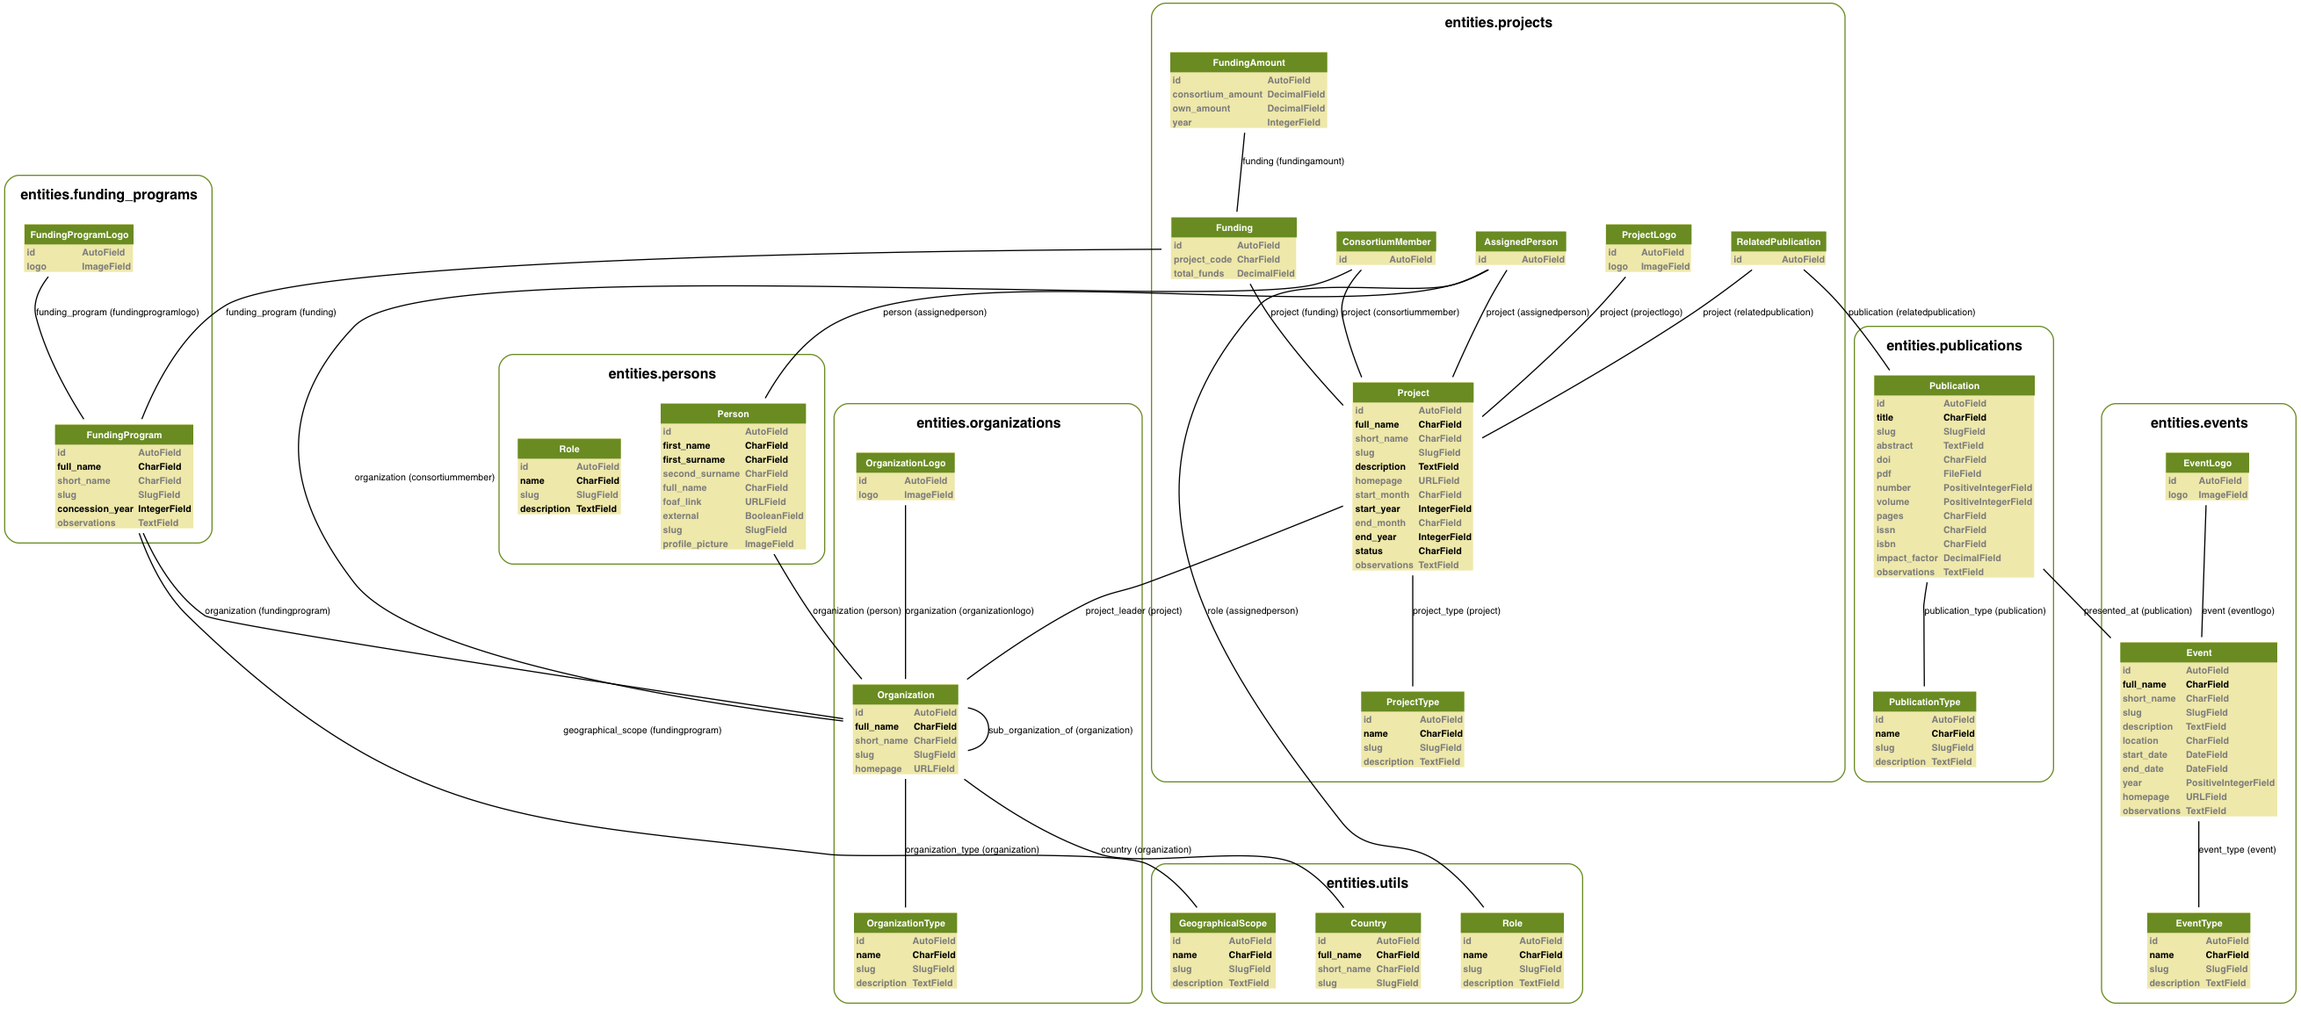
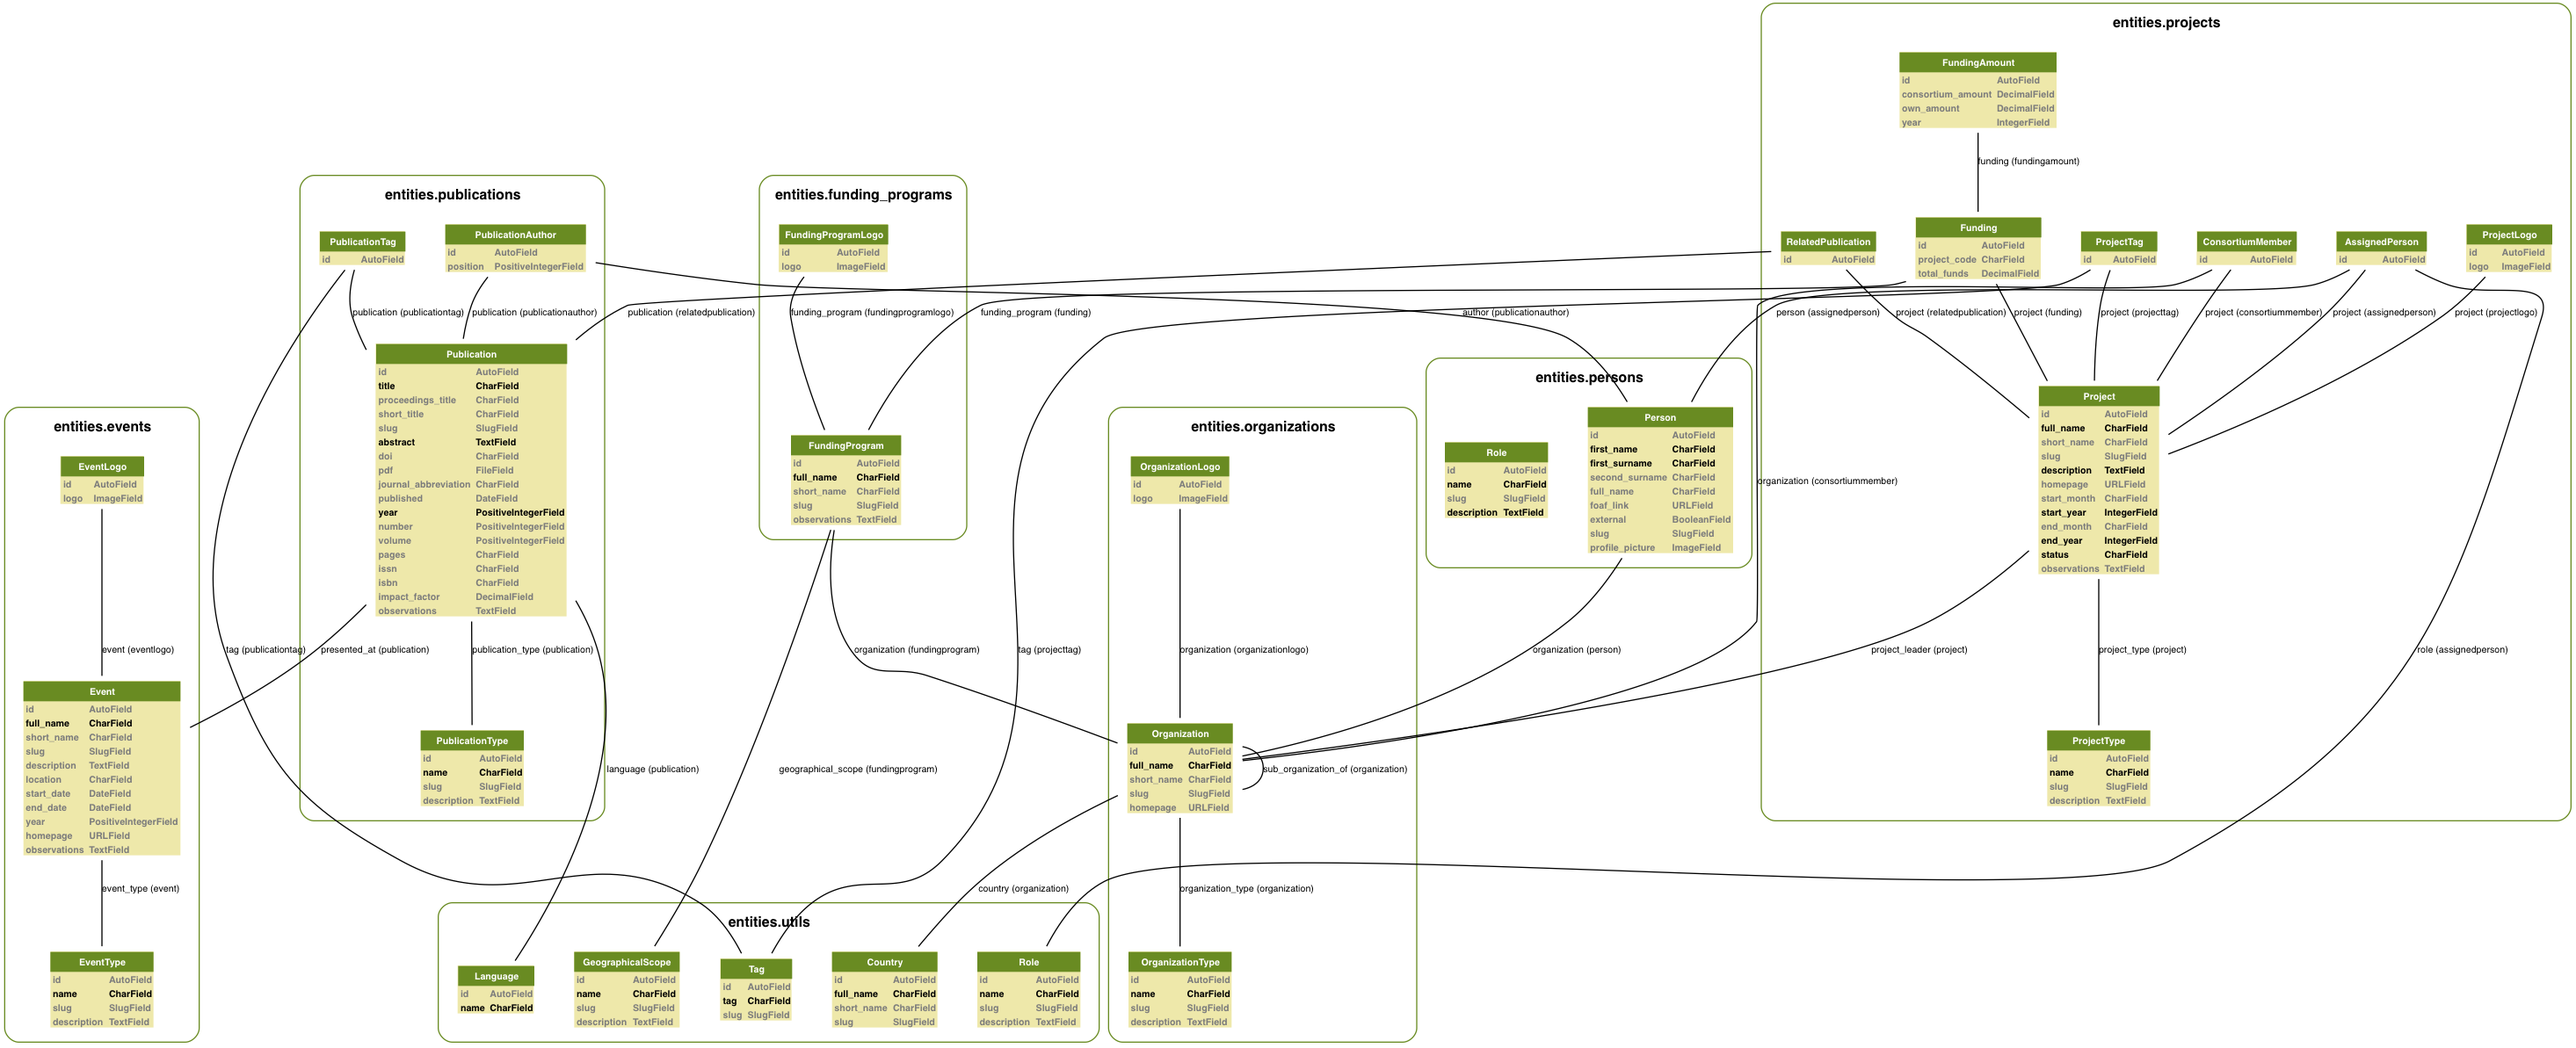
Added tag cloud to projects.

diff --git a/entities/publications/templates/publications/index.html b/entities/publications/templates/publications/index.html
@@ -34,7 +34,7 @@
         </div>
     <form>
 
-        <a href="{% url publication_tag_cloud %}">View tag cloud</a>
+    <a href="{% url publication_tag_cloud %}">View tag cloud</a>
 
     <div class="pagination">
         <span class="step-links">

diff --git a/entities/projects/templates/projects/index.html b/entities/projects/templates/projects/index.html
@@ -34,6 +34,8 @@
         </div>
     <form>
 
+    <a href="{% url project_tag_cloud %}">View tag cloud</a>
+
     <div class="pagination">
         <span class="step-links">
             {% if projects.has_previous %}

diff --git a/entities/projects/views.py b/entities/projects/views.py
@@ -322,3 +322,29 @@ def email_project(request, slug):
     msg.send()
 
     return HttpResponseRedirect(reverse('project_index'))
+
+
+#########################
+# View: project_tag_cloud
+#########################
+
+def project_tag_cloud(request):
+
+    tag_dict = {}
+
+    tags = ProjectTag.objects.all()
+
+    for tag in tags:
+        t = tag.tag.tag
+        print t
+        if t in tag_dict.keys():
+            tag_dict[t] = tag_dict[t] + 1
+        else:
+            tag_dict[t] = 1
+
+    print tag_dict
+
+    return render_to_response('projects/tag_cloud.html', {
+            'tag_dict': tag_dict,
+        },
+        context_instance=RequestContext(request))

diff --git a/entities/projects/urls.py b/entities/projects/urls.py
@@ -8,6 +8,8 @@ urlpatterns = patterns('',
 
     url(r'^tag/(?P<tag_slug>\S+)/$', 'entities.projects.views.view_project_tag', name='view_project_tag'),
     url(r'^publication_type/(?P<project_type_slug>\S+)/$', 'entities.projects.views.view_project_type', name='view_project_type'),
+
+    url(r'^tag_cloud/$', 'entities.projects.views.project_tag_cloud', name='project_tag_cloud'),
 )
 
 urlpatterns += staticfiles_urlpatterns()
